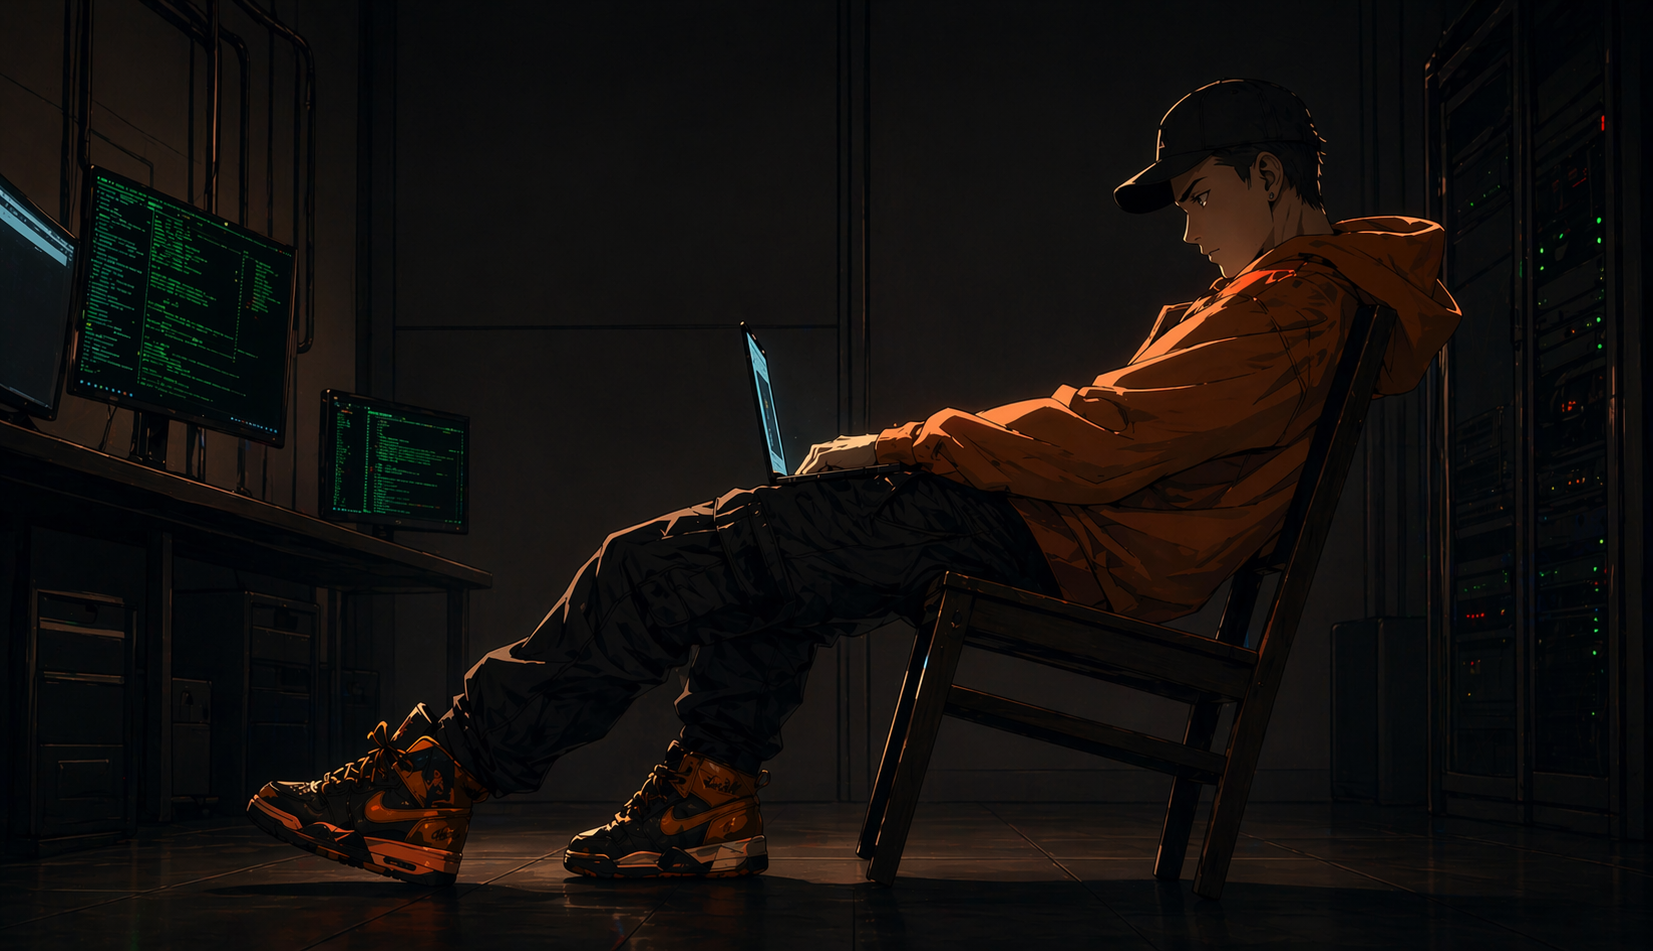
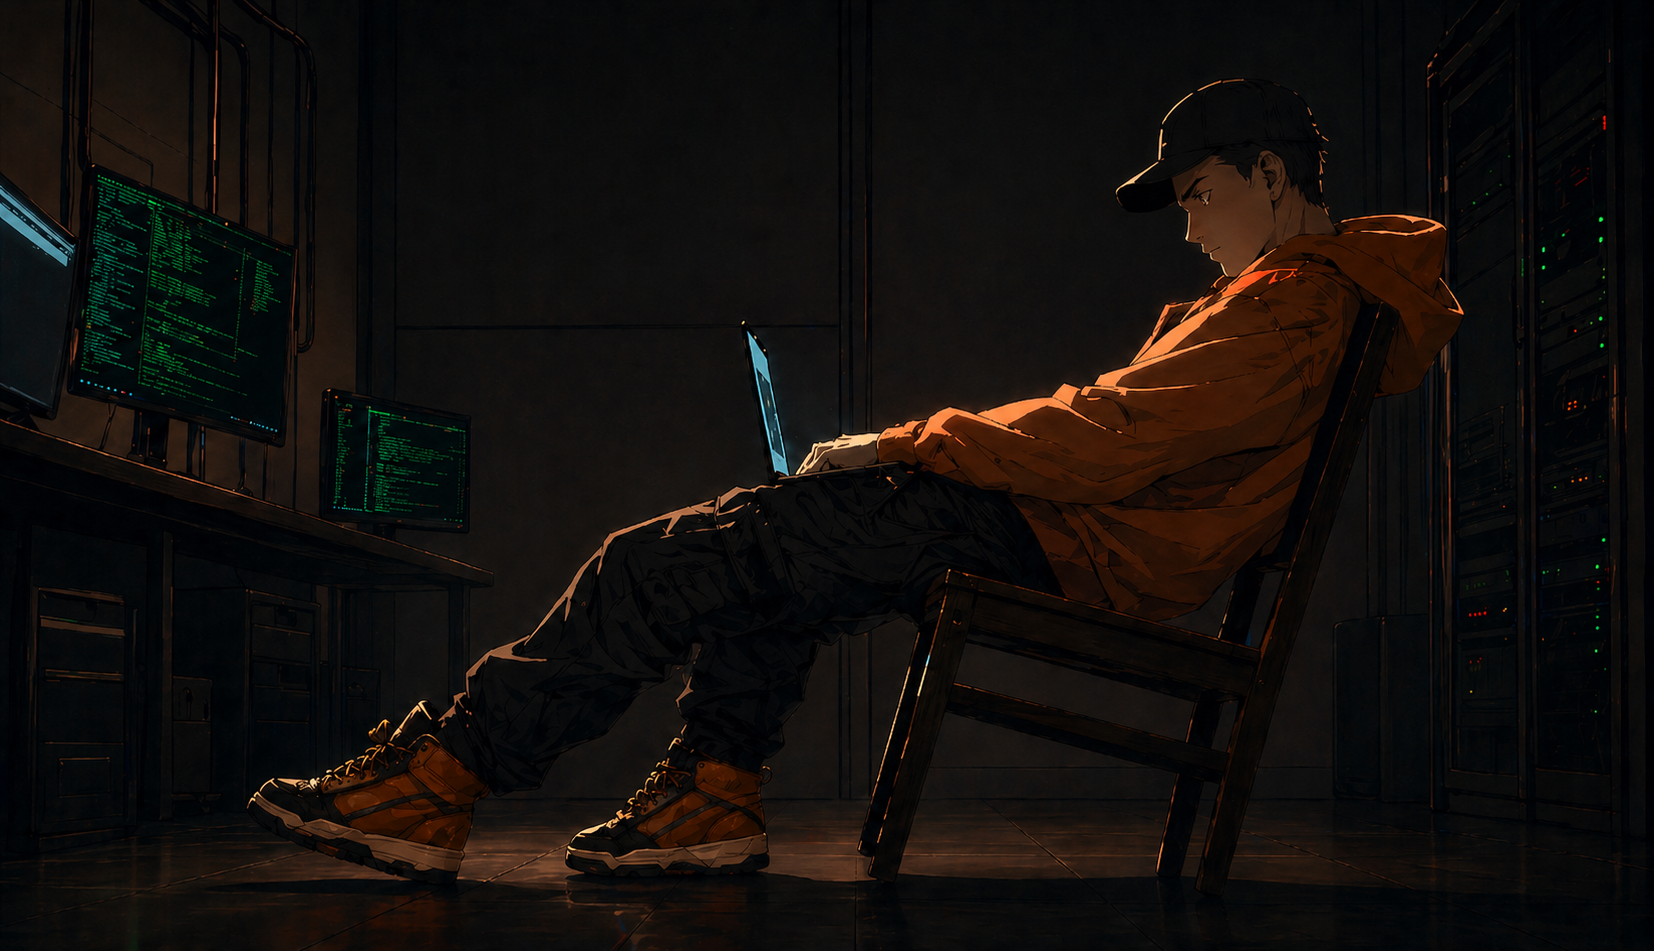
Update navigation styles, modify HomeAbout content, enhance HomeHero headline, adjust HomeImage filter, and refine MobileTimelineScreen text

diff --git a/src/styles.css b/src/styles.css
@@ -35,7 +35,7 @@
 	--main-1k: hsl(244 40% 10% / 1); */
 
 	/* Tailwind indigo colors (hue-driven so the stored hue can apply pre-paint) */
-	--main-hue-base: 243;
+	--main-hue-base: 22;
 	--main-50: hsl(calc(var(--main-hue-base) - 17) 100% 97%);
 	--main-100: hsl(calc(var(--main-hue-base) - 17) 100% 94%);
 	--main-200: hsl(calc(var(--main-hue-base) - 15) 96% 89%);

diff --git a/src/sections/home/styles/mobile/mb-home-hero.css b/src/sections/home/styles/mobile/mb-home-hero.css
@@ -72,7 +72,6 @@
 				border: 0;
 				border-radius: 0;
 				margin-top: -2px;
-				font-family: 'Inter', sans-serif;
 				font-size: 12px;
 				letter-spacing: 0.22rem;
 				text-transform: uppercase;
@@ -92,6 +91,7 @@
 				background: transparent;
 				box-shadow: none;
 				line-height: 1.6;
+				font-size: 14px;
 			}
 		}
 		#mb-gif-tile {
